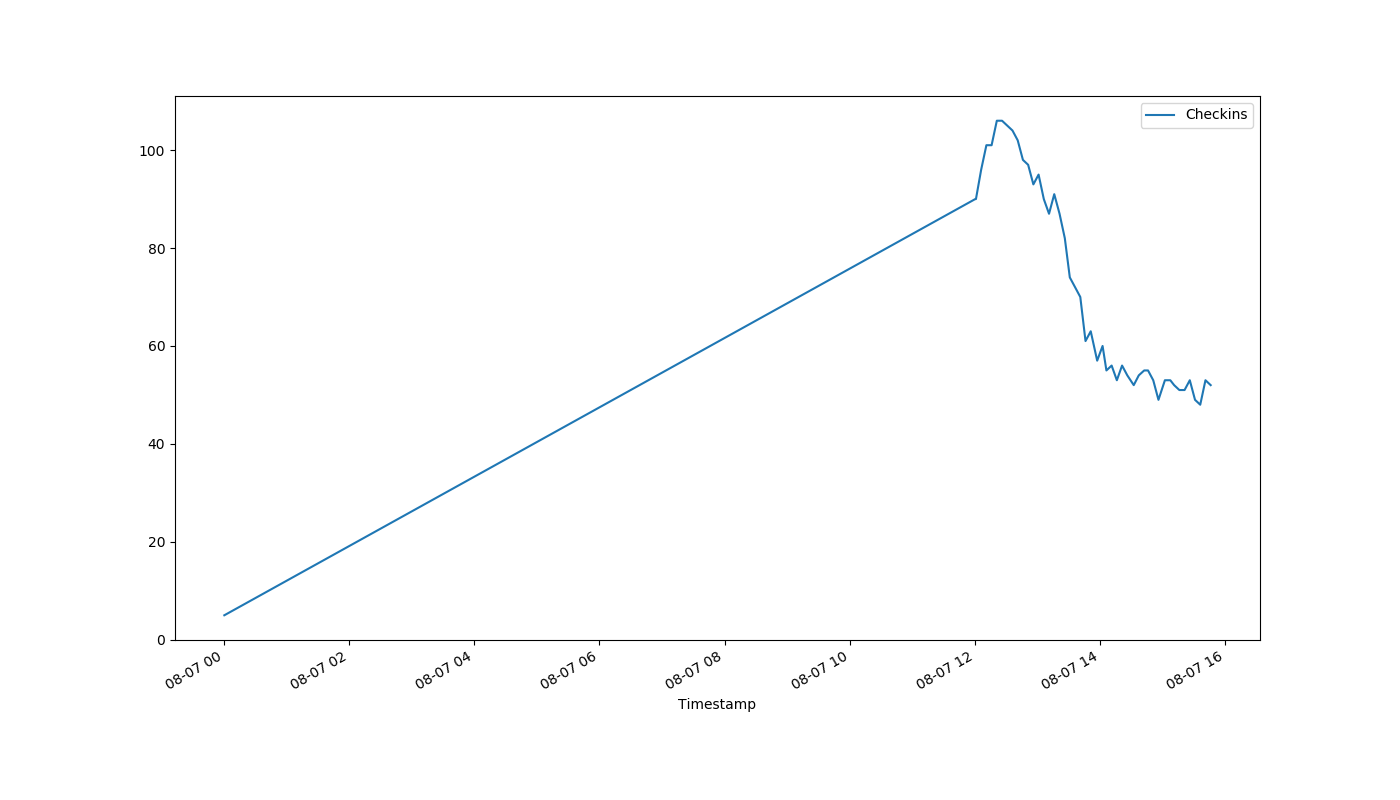
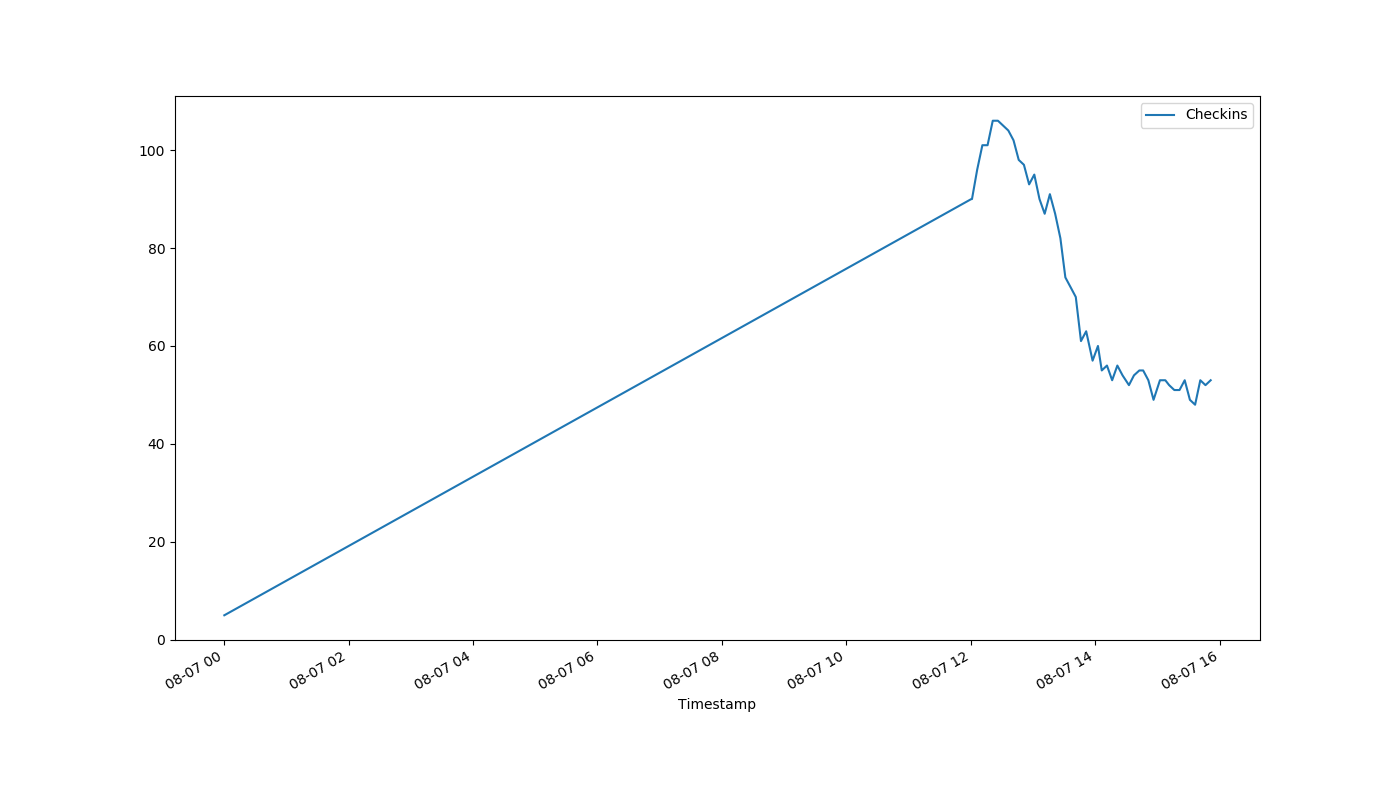
auto-Aug-07-15:51:44

diff --git a/index.html b/index.html
@@ -1,1 +1,1 @@
-<!DOCTYPE html><html><head><meta http-equiv="refresh" content="30"><link rel='stylesheet' href='holmcurrent.css'></head><body><p id='count'>52</p><div id='graph-wrap'><img id='graph' src='holmgraph-Aug-07.png'></div><p id='updated'>Last updated 15:46:18 / 15:46:06</p></body></html>
+<!DOCTYPE html><html><head><meta http-equiv="refresh" content="30"><link rel='stylesheet' href='holmcurrent.css'></head><body><p id='count'>53</p><div id='graph-wrap'><img id='graph' src='holmgraph-Aug-07.png'></div><p id='updated'>Last updated 15:51:18 / 15:51:07</p></body></html>
